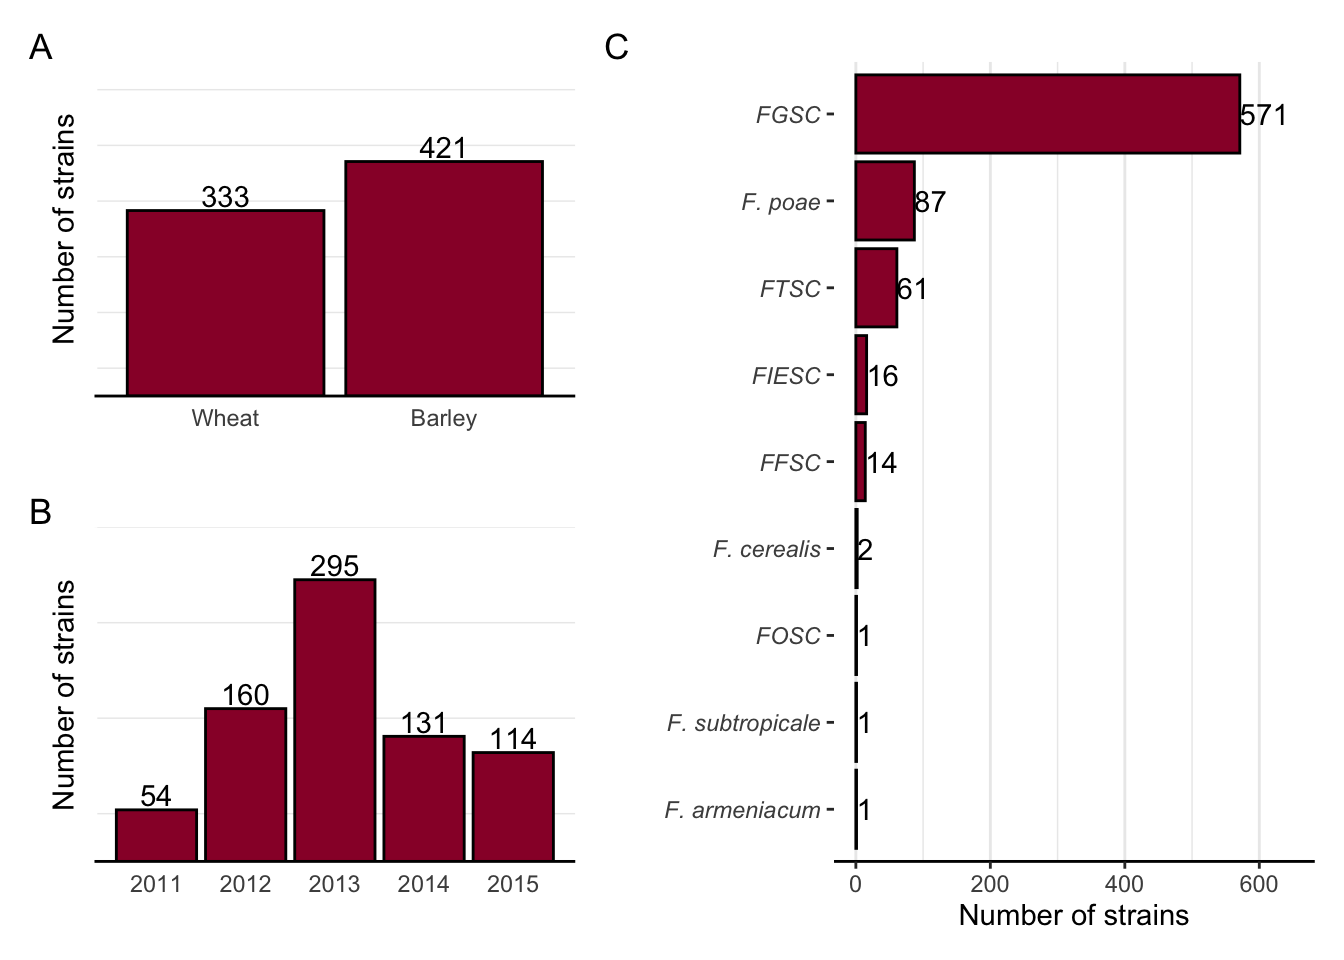
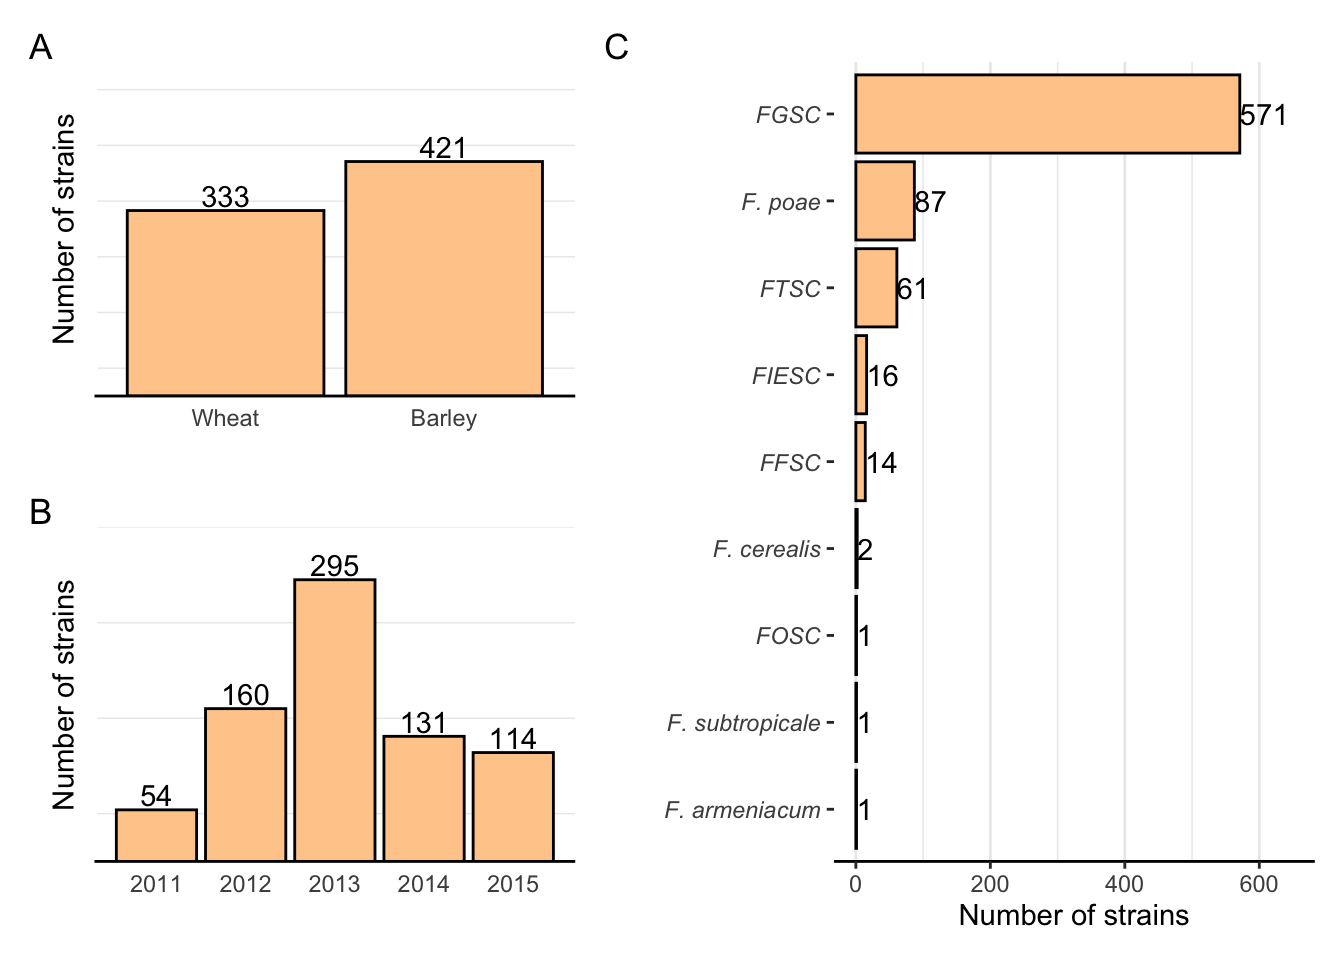
layout change

Changed region(s): [[0.0938, 0.1562, 0.4062, 0.4375], [0.0625, 0.5938, 0.4375, 0.9062], [0.625, 0.0625, 0.9375, 0.5312]]

diff --git a/docs/code.html b/docs/code.html
@@ -422,7 +422,7 @@ div.tocify {
         <span class="icon-bar"></span>
         <span class="icon-bar"></span>
       </button>
-      <a class="navbar-brand" href="index.html">Survey of <i>Fusarium spp.</i> in wheat and Barley, PR state Brazil</a>
+      <a class="navbar-brand" href="index.html"><i>Fusarium spp.</i> in wheat and Barley</a>
     </div>
     <div id="navbar" class="navbar-collapse collapse">
       <ul class="nav navbar-nav">
@@ -542,7 +542,7 @@ div.tocify {
 <div class="sourceCode" id="cb6"><pre class="sourceCode r"><code class="sourceCode r"><a class="sourceLine" id="cb6-1" data-line-number="1">Fig1A &lt;-<span class="st"> </span>fus <span class="op">%&gt;%</span><span class="st"> </span></a>
 <a class="sourceLine" id="cb6-2" data-line-number="2"><span class="st">  </span><span class="kw">tabyl</span>(Host) <span class="op">%&gt;%</span><span class="st"> </span></a>
 <a class="sourceLine" id="cb6-3" data-line-number="3"><span class="st">    </span><span class="kw">ggplot</span>(<span class="kw">aes</span>(<span class="kw">reorder</span>(Host, n), n, <span class="dt">label =</span> n))<span class="op">+</span></a>
-<a class="sourceLine" id="cb6-4" data-line-number="4"><span class="st">     </span><span class="kw">geom_col</span>(<span class="dt">fill =</span> <span class="st">&quot;#990033&quot;</span>, <span class="dt">color =</span> <span class="st">&quot;black&quot;</span>, <span class="dt">size =</span> <span class="fl">0.5</span>)<span class="op">+</span></a>
+<a class="sourceLine" id="cb6-4" data-line-number="4"><span class="st">     </span><span class="kw">geom_col</span>(<span class="dt">fill =</span> <span class="st">&quot;#ffcc99&quot;</span>, <span class="dt">color =</span> <span class="st">&quot;black&quot;</span>, <span class="dt">size =</span> <span class="fl">0.5</span>)<span class="op">+</span></a>
 <a class="sourceLine" id="cb6-5" data-line-number="5"><span class="st">  </span><span class="kw">theme</span>(<span class="dt">axis.text.x=</span><span class="kw">element_text</span>(<span class="dt">face=</span><span class="st">&quot;italic&quot;</span>))<span class="op">+</span></a>
 <a class="sourceLine" id="cb6-6" data-line-number="6"><span class="st">      </span><span class="kw">geom_text</span>(<span class="dt">position =</span> <span class="kw">position_dodge</span>(<span class="dt">width =</span> <span class="dv">1</span>),</a>
 <a class="sourceLine" id="cb6-7" data-line-number="7">            <span class="dt">hjust =</span> <span class="fl">0.5</span>, <span class="dt">vjust =</span> <span class="fl">-0.2</span>) <span class="op">+</span></a>
@@ -562,7 +562,7 @@ div.tocify {
 <div class="sourceCode" id="cb8"><pre class="sourceCode r"><code class="sourceCode r"><a class="sourceLine" id="cb8-1" data-line-number="1">Fig1B &lt;-<span class="st"> </span>fus <span class="op">%&gt;%</span><span class="st"> </span></a>
 <a class="sourceLine" id="cb8-2" data-line-number="2"><span class="st">  </span><span class="kw">tabyl</span>(Year) <span class="op">%&gt;%</span><span class="st"> </span></a>
 <a class="sourceLine" id="cb8-3" data-line-number="3"><span class="st">    </span><span class="kw">ggplot</span>(<span class="kw">aes</span>(Year,n, <span class="dt">label =</span> n))<span class="op">+</span></a>
-<a class="sourceLine" id="cb8-4" data-line-number="4"><span class="st">    </span><span class="kw">geom_col</span>(<span class="dt">fill =</span> <span class="st">&quot;#990033&quot;</span>, <span class="dt">color =</span> <span class="st">&quot;black&quot;</span>, <span class="dt">size =</span> <span class="fl">0.5</span>)<span class="op">+</span></a>
+<a class="sourceLine" id="cb8-4" data-line-number="4"><span class="st">    </span><span class="kw">geom_col</span>(<span class="dt">fill =</span> <span class="st">&quot;#ffcc99&quot;</span>, <span class="dt">color =</span> <span class="st">&quot;black&quot;</span>, <span class="dt">size =</span> <span class="fl">0.5</span>)<span class="op">+</span></a>
 <a class="sourceLine" id="cb8-5" data-line-number="5"><span class="st">  </span><span class="kw">theme_light</span>()<span class="op">+</span></a>
 <a class="sourceLine" id="cb8-6" data-line-number="6"><span class="st">    </span><span class="kw">geom_text</span>(<span class="dt">hjust =</span> <span class="fl">0.5</span>, <span class="dt">vjust =</span> <span class="fl">-0.2</span>) <span class="op">+</span></a>
 <a class="sourceLine" id="cb8-7" data-line-number="7"><span class="st">  </span><span class="kw">labs</span>(<span class="dt">x =</span> <span class="st">&quot;&quot;</span>, <span class="dt">y =</span> <span class="st">&quot;Number of strains&quot;</span>)<span class="op">+</span></a>
@@ -581,7 +581,7 @@ div.tocify {
 <div class="sourceCode" id="cb10"><pre class="sourceCode r"><code class="sourceCode r"><a class="sourceLine" id="cb10-1" data-line-number="1">Fig1C &lt;-<span class="st"> </span>fus <span class="op">%&gt;%</span><span class="st"> </span></a>
 <a class="sourceLine" id="cb10-2" data-line-number="2"><span class="st">  </span><span class="kw">tabyl</span>(Complexes) <span class="op">%&gt;%</span><span class="st"> </span></a>
 <a class="sourceLine" id="cb10-3" data-line-number="3"><span class="st">    </span><span class="kw">ggplot</span>(<span class="kw">aes</span>(<span class="kw">reorder</span>(Complexes, n),n, <span class="dt">label =</span> n))<span class="op">+</span></a>
-<a class="sourceLine" id="cb10-4" data-line-number="4"><span class="st">    </span><span class="kw">geom_col</span>(<span class="dt">fill =</span> <span class="st">&quot;#990033&quot;</span>, <span class="dt">color =</span> <span class="st">&quot;black&quot;</span>, <span class="dt">size =</span> <span class="fl">0.5</span>)<span class="op">+</span></a>
+<a class="sourceLine" id="cb10-4" data-line-number="4"><span class="st">    </span><span class="kw">geom_col</span>(<span class="dt">fill =</span> <span class="st">&quot;#ffcc99&quot;</span>, <span class="dt">color =</span> <span class="st">&quot;black&quot;</span>, <span class="dt">size =</span> <span class="fl">0.5</span>)<span class="op">+</span></a>
 <a class="sourceLine" id="cb10-5" data-line-number="5"><span class="st">   </span><span class="kw">coord_flip</span>()<span class="op">+</span></a>
 <a class="sourceLine" id="cb10-6" data-line-number="6"><span class="st">  </span><span class="kw">theme</span>(<span class="dt">axis.text.x=</span><span class="kw">element_text</span>(<span class="dt">face=</span><span class="st">&quot;italic&quot;</span>))<span class="op">+</span></a>
 <a class="sourceLine" id="cb10-7" data-line-number="7"><span class="st">      </span><span class="kw">geom_text</span>(<span class="dt">position =</span> <span class="kw">position_dodge</span>(<span class="dt">width =</span> <span class="dv">1</span>),</a>
@@ -652,8 +652,11 @@ div.tocify {
 <a class="sourceLine" id="cb16-4" data-line-number="4">p1</a></code></pre></div>
 <p><img src="code_files/figure-html/unnamed-chunk-16-1.png" width="672" /></p>
 </div>
-<div id="fgsc-by-host-withi-year" class="section level3">
-<h3>FGSC by host withi year</h3>
+<div id="host-effect" class="section level3">
+<h3>Host effect</h3>
+</div>
+<div id="fgsc-by-host-within-year" class="section level3">
+<h3>FGSC by host within year</h3>
 <div id="wheat-1" class="section level4">
 <h4>Wheat</h4>
 <div class="sourceCode" id="cb17"><pre class="sourceCode r"><code class="sourceCode r"><a class="sourceLine" id="cb17-1" data-line-number="1">Fig3A &lt;-<span class="st"> </span>fus <span class="op">%&gt;%</span><span class="st"> </span></a>

diff --git a/docs/index.html b/docs/index.html
@@ -331,7 +331,7 @@ div.tocify {
         <span class="icon-bar"></span>
         <span class="icon-bar"></span>
       </button>
-      <a class="navbar-brand" href="index.html">Survey of <i>Fusarium spp.</i> in wheat and Barley, PR state Brazil</a>
+      <a class="navbar-brand" href="index.html"><i>Fusarium spp.</i> in wheat and Barley</a>
     </div>
     <div id="navbar" class="navbar-collapse collapse">
       <ul class="nav navbar-nav">
@@ -380,28 +380,11 @@ div.tocify {
 </div>
 
 
-<p>This is a Research Compendium that accompanies a manuscript entitled “:”</p>
-<div id="project-team" class="section level2">
-<h2>Project team</h2>
-<div id="methodology" class="section level3">
-<h3>Methodology</h3>
-<p>The data were collected during surveys conducted</p>
-</div>
-<div id="citation" class="section level3">
-<h3>Citation</h3>
-<p>Please cite this research compendium as:</p>
+<p><img src = "figs/cover.png" width =300 align = right> This Research Compendium accompanies a manuscript entitled “Five-year survey uncovers extensive diversity and temporal fluctuations among Fusarium head blight pathogens of wheat and barley in Brazil”. Link to Preprint here.</p>
+<p>The work resulted from doctoral study conducted at the Universidade Estadual de Maringá in cooperation with Fundação Agrária de Pesquisa Agropecuária, Mycotoxin Prevention and Applied Microbiology Research Unit, ARS-USDA and Universidade Federal de Viçosa.</p>
 <p>Authors, . Title of compendium. Online at <a href="https://doi.org/xxx/xxx" class="uri">https://doi.org/xxx/xxx</a></p>
-</div>
-<div id="licences" class="section level3">
-<h3>Licences</h3>
-<p>Data: <a href="https://creativecommons.org/publicdomain/zero/1.0/">CC-0</a> attribution requested in reuse Manuscript: <a href="https://creativecommons.org/licenses/by/4.0/">CC-BY-4.0</a><br />
-Code: <a href="https://opensource.org/licenses/MIT">MIT</a> year: 2017, copyright holder: Emerson Del Ponte</p>
-</div>
-<div id="contributions" class="section level3">
-<h3>Contributions</h3>
-<p>We welcome contributions from everyone. Before you get started, please see our <a href="CONTRIBUTING.html">contributor guidelines</a>. Please note that this project is released with a <a href="CONDUCT.html">Contributor Code of Conduct</a>. By participating in this project you agree to abide by its terms.</p>
-</div>
-</div>
+<p>Licenses:<br />
+Data: <a href="https://creativecommons.org/publicdomain/zero/1.0/">CC-0</a> attribution requested in reuse Code: <a href="https://opensource.org/licenses/MIT">MIT</a> year: 2020, copyright holder: Emerson Del Ponte</p>
 
 
 

diff --git a/docs/CONDUCT.html b/docs/CONDUCT.html
@@ -329,7 +329,7 @@ div.tocify {
         <span class="icon-bar"></span>
         <span class="icon-bar"></span>
       </button>
-      <a class="navbar-brand" href="index.html">Survey of <i>Fusarium spp.</i> in wheat and Barley, PR state Brazil</a>
+      <a class="navbar-brand" href="index.html"><i>Fusarium spp.</i> in wheat and Barley</a>
     </div>
     <div id="navbar" class="navbar-collapse collapse">
       <ul class="nav navbar-nav">

diff --git a/docs/CONTRIBUTING.html b/docs/CONTRIBUTING.html
@@ -329,7 +329,7 @@ div.tocify {
         <span class="icon-bar"></span>
         <span class="icon-bar"></span>
       </button>
-      <a class="navbar-brand" href="index.html">Survey of <i>Fusarium spp.</i> in wheat and Barley, PR state Brazil</a>
+      <a class="navbar-brand" href="index.html"><i>Fusarium spp.</i> in wheat and Barley</a>
     </div>
     <div id="navbar" class="navbar-collapse collapse">
       <ul class="nav navbar-nav">

diff --git a/docs/data.html b/docs/data.html
@@ -331,7 +331,7 @@ div.tocify {
         <span class="icon-bar"></span>
         <span class="icon-bar"></span>
       </button>
-      <a class="navbar-brand" href="index.html">Survey of <i>Fusarium spp.</i> in wheat and Barley, PR state Brazil</a>
+      <a class="navbar-brand" href="index.html"><i>Fusarium spp.</i> in wheat and Barley</a>
     </div>
     <div id="navbar" class="navbar-collapse collapse">
       <ul class="nav navbar-nav">

diff --git a/docs/footer.html b/docs/footer.html
@@ -329,7 +329,7 @@ div.tocify {
         <span class="icon-bar"></span>
         <span class="icon-bar"></span>
       </button>
-      <a class="navbar-brand" href="index.html">Survey of <i>Fusarium spp.</i> in wheat and Barley, PR state Brazil</a>
+      <a class="navbar-brand" href="index.html"><i>Fusarium spp.</i> in wheat and Barley</a>
     </div>
     <div id="navbar" class="navbar-collapse collapse">
       <ul class="nav navbar-nav">
